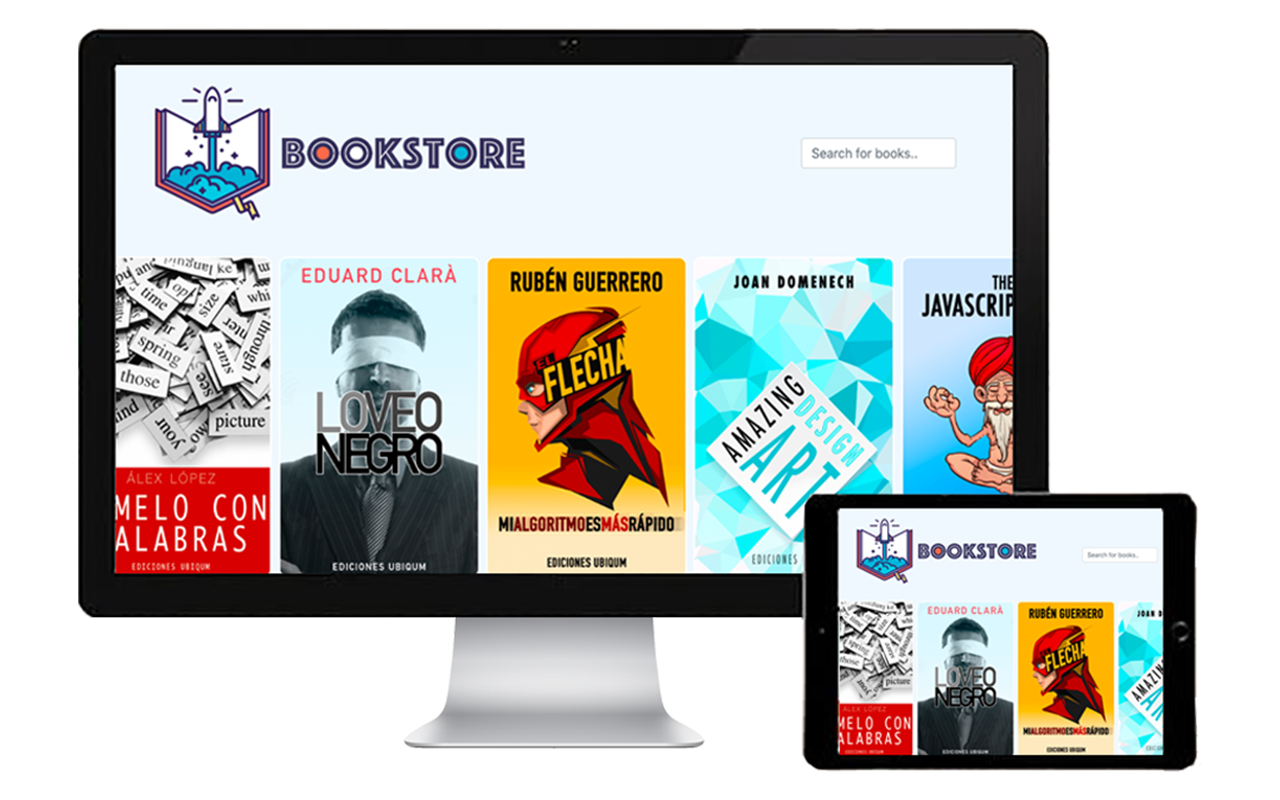
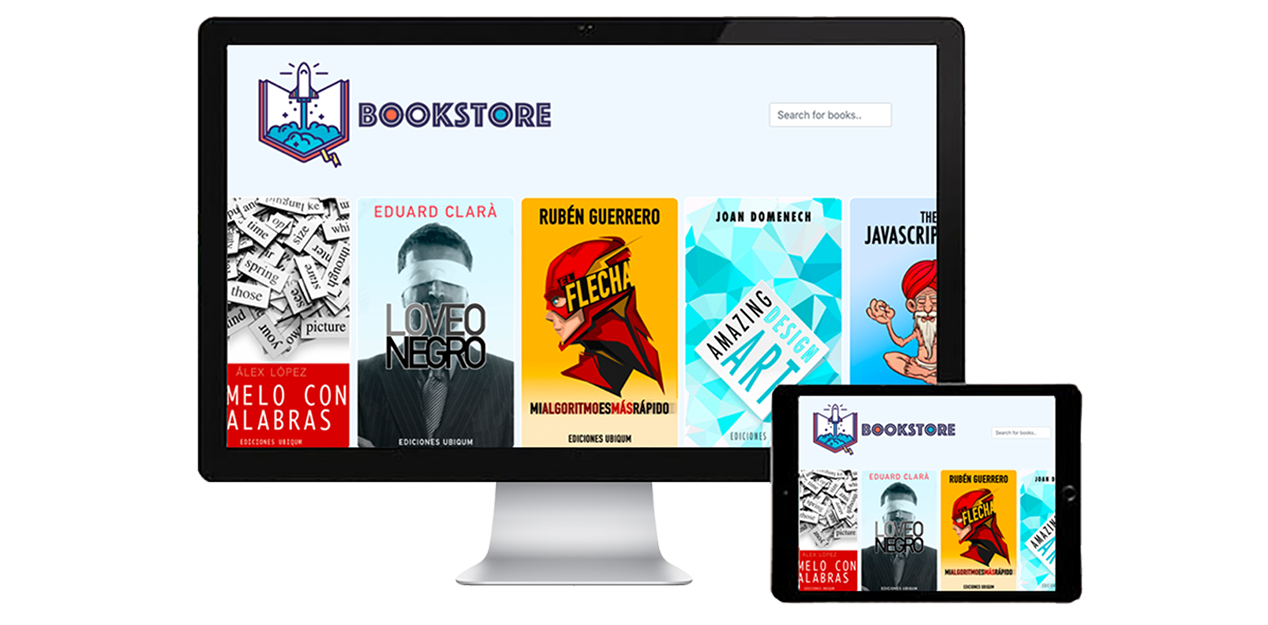
resized images

diff --git a/home.html b/home.html
@@ -54,13 +54,13 @@
         <!-- <section>
            <div class="logo"><c>P<span>O</span>R<span>T</span>F<span>O</span>L<span>I</span>O</c></div>
         </section>  -->  
+      
       <section id="front-end-portfolio">  
            <h2>Web Development</h2>
-                    <img class="img-front-end-portfolio" src="bookstore1.png" alt="bookstore">
-                    <img class="img-front-end-portfolio" src="front-end-social.png" alt="screenshot nysl app">
-                    <img class="img-front-end-portfolio" src="tgif1.png" alt="tgif">   
+                    <img class="img-front-end-portfolio" style="width: 85%" src="bookstore1.png" alt="bookstore">
+                    <img class="img-front-end-portfolio" style="width: 85%" src="front-end-social.png" alt="nysl-app">   
             </section>
-      </section>
+    
 <!-- ======== FASHION DESIGN ======== -->   
 <section id="back-end-portfolio">
     <h2>Fashion Design</h2>

diff --git a/portfolio.css b/portfolio.css
@@ -255,13 +255,6 @@ article {
   }
 }
 
-@media screen and (min-width: 1200px) {
-  .img-front-end-portfolio {
-    width: 60%;
-    height: auto;
-  }
-}
-
 /* ======== MY WORK: BACK-END ======== */
 #back-end-portfolio {
   display: flex;
